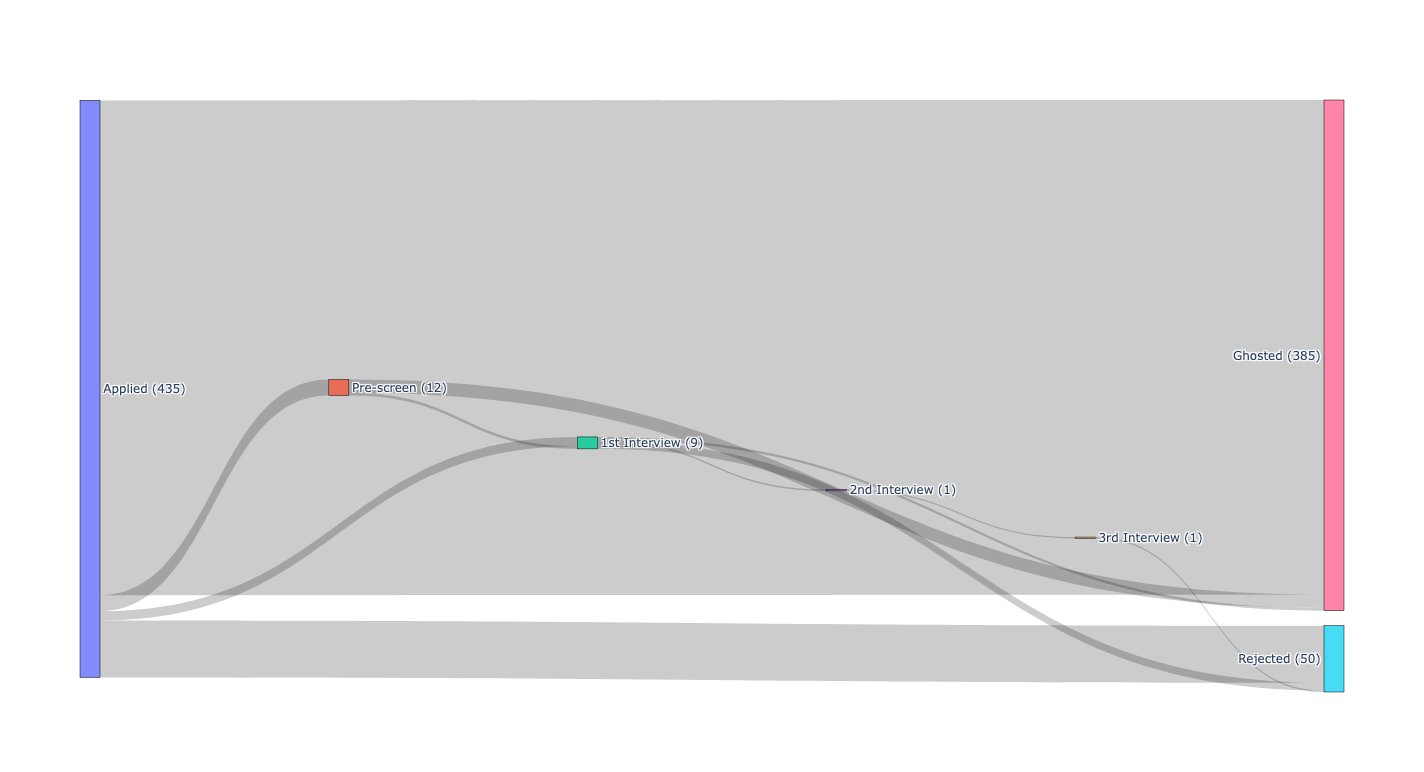
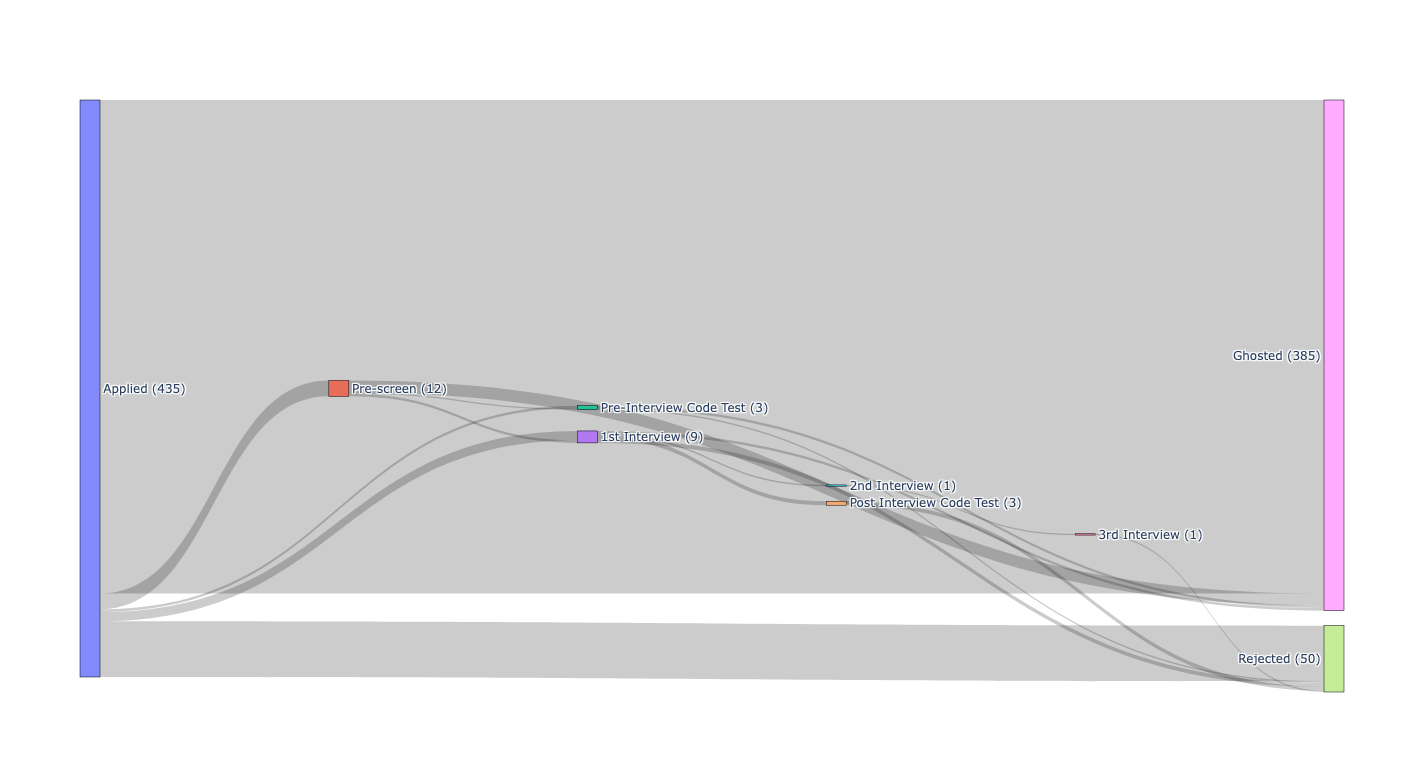
Add code tests as nodes

diff --git a/python/generate_sankey_diagram.py b/python/generate_sankey_diagram.py
@@ -7,6 +7,18 @@ df = pd.read_excel(file_path, sheet_name='Sheet1')
 
 # Define the states with separated Rejected and Ghosted
 states = ["Applied", "Pre-screen", "1st Interview", "2nd Interview", "3rd Interview", "Rejected", "Ghosted"]
+# Define the states with additional code test nodes
+states = [
+    "Applied",
+    "Pre-screen",
+    "Pre-Interview Code Test",
+    "1st Interview",
+    "Post Interview Code Test",
+    "2nd Interview",
+    "3rd Interview",
+    "Rejected",
+    "Ghosted"
+]
 
 # Initialize a dictionary to store the transitions
 transitions = {state: {next_state: 0 for next_state in states} for state in states}
@@ -21,9 +33,17 @@ for i, row in df.iterrows():
         transitions[current_state]["Pre-screen"] += 1
         current_state = "Pre-screen"
         state_counts[current_state] += 1
+    if pd.notna(row['Pre-Interview Code Test']):
+        transitions[current_state]["Pre-Interview Code Test"] += 1
+        current_state = "Pre-Interview Code Test"
+        state_counts[current_state] += 1
     if pd.notna(row['1st Interview Date']):
         transitions[current_state]["1st Interview"] += 1
         current_state = "1st Interview"
+        state_counts[current_state] += 1
+    if pd.notna(row['Post Interview Code Test']):
+        transitions[current_state]["Post Interview Code Test"] += 1
+        current_state = "Post Interview Code Test"
         state_counts[current_state] += 1
     if pd.notna(row['2nd Interview']):
         transitions[current_state]["2nd Interview"] += 1
